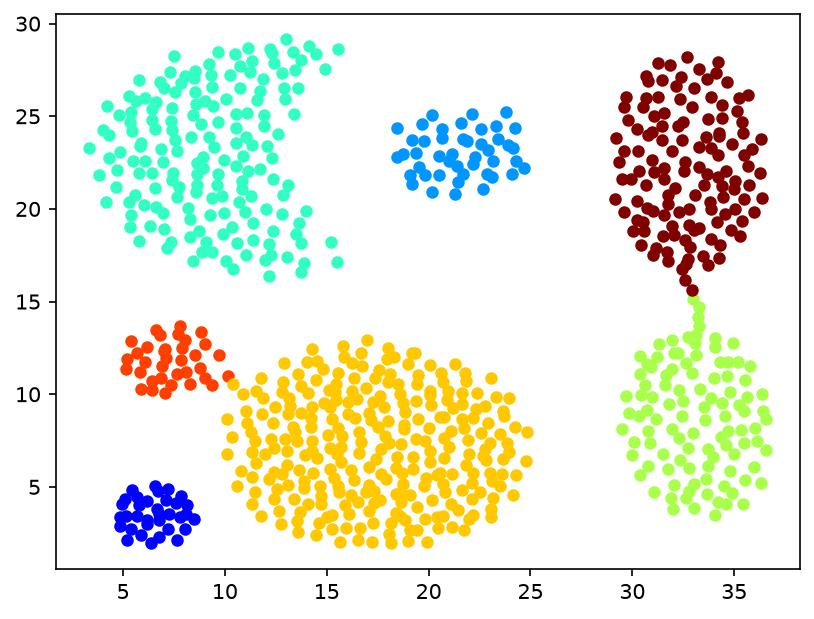
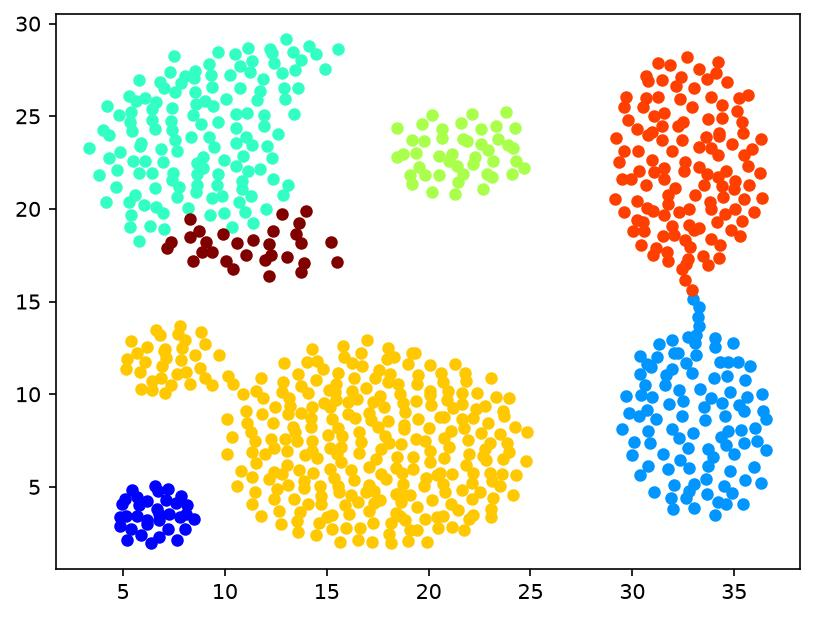
Refactor code: clean up comments, adjust neighbor search, and update ls.txt clustering config

diff --git a/code/NDP_Searching.py b/code/NDP_Searching.py
@@ -11,33 +11,27 @@ from sklearn.neighbors import NearestNeighbors
 
 
 def NDP_Searching(A):
-    # tic;
     N, dim = A.shape
     k = min(100, N)
-    kdtree = NearestNeighbors(n_neighbors=k, algorithm='kd_tree').fit(A)  # KDTreeSearcher(A(:,:),'bucketsize',1); % 1 indicates using Euclidean distance
-    distances, index = kdtree.kneighbors(A)  # [index,~] = knnsearch(kdtree,A(:,:),'k',100); % Return sorted indices and distances
+    kdtree = NearestNeighbors(n_neighbors=k, algorithm='kd_tree').fit(A) 
+    distances, index = kdtree.kneighbors(A)  
 
     # Initialize basic data
     r = 1
     flag = 0
     nb = np.zeros(N, dtype=int)  # Number of natural neighbors
-    # NNN = np.zeros((N, N))  # Natural neighbor set of each point
     count = 0   # Consecutive count where the number of points with zero natural nearest neighbors remains unchanged
     count1 = 0  # Previous count of data points with zero natural nearest neighbors
     count2 = 0  # Current count of data points with zero natural nearest neighbors
 
     # Search natural nearest neighbors
-    while flag == 0:
+    while flag == 0 and r < k:
         for i in range(N):
             k_neighbor = index[i, r]
             nb[k_neighbor] = nb[k_neighbor] + 1
-            # RNN[k_neighbor, nb[k_neighbor]] = i
         r = r + 1
-        # count2 = 0
-        count2 = int(np.sum(nb == 0))  # [~,count2]=size(find(nb==0));
-        # for i in range(N):
-        #     if nb[i] == 0:
-        #         count2 = count2 + 1
+        count2 = 0
+        count2 = int(np.sum(nb == 0))  
 
         # Count consecutive iterations where the number of points with nb(i) == 0 does not change
         if count1 == count2:
@@ -50,11 +44,9 @@ def NDP_Searching(A):
 
         count1 = count2
 
-    supk = r - 1           # lambda
-    max_nb = int(np.max(nb))  # maxnb
+    supk = r - 1     
     rho = np.zeros(N)
-    Non = max_nb
-    # Non = supk
+    Non = supk
 
     #############################################
     # compute the density
@@ -66,7 +58,6 @@ def NDP_Searching(A):
             d = d + dist
         rho[i] = Non / d if d != 0 else np.inf
 
-    # [rho_sorted, ordrho] = sort(rho, 'descend'); % ordrho is the order of densities from largest to smallest
     local_core = np.zeros(N, dtype=int)  # Store the local core points of the n points
 
     ##################################################################
@@ -106,17 +97,6 @@ def NDP_Searching(A):
     for i in range(N):
         cl[i] = cl[local_core[i]]
 
-    # toc;
-    ###############################################################
-    # import matplotlib.pyplot as plt
-    # plt.figure()
-    # # Plot the core points and corresponding initial clustering result
-    # plt.plot(A[:, 0], A[:, 1], '.')
-    # for i in range(N):
-    #     plt.plot([A[i, 0], A[local_core[i], 0]], [A[i, 1], A[local_core[i], 1]])
-    # drawcluster2(A, cl, cluster_number + 1)
-    # plt.plot(A[local_core, 0], A[local_core, 1], 'ro', markersize=8, markerfacecolor='r', markeredgecolor='r')
-    # # plt.title('Result of searching supk nearest neighbors')
 
     return index, supk, nb, rho, local_core, cores, cl, cluster_number
 

diff --git a/code/NDP_Kmeans.py b/code/NDP_Kmeans.py
@@ -16,23 +16,22 @@ from scipy.sparse.csgraph import minimum_spanning_tree, shortest_path as csgraph
 from scipy.sparse import csr_matrix
 import matplotlib.pyplot as plt
 
+
 from NDP_Searching import NDP_Searching
 from KmeansWithGD import KmeansWithGD
 from drawcluster_ndpkmeans import drawcluster_ndpkmeans
 
 
 def NDP_Kmeans(A, num_clusters, alpha, save_name='cluster_result.jpg'):
-    # A: The data set n*d
-
-    t_start = time.time()  # tic;
+    t_start = time.time() 
     N, dim = A.shape
     print('Searching NDPs......')
     index, supk, nb, rho, local_core, cores, cl, cluster_number = NDP_Searching(A)
-    rho_sorted = np.sort(rho)  # [rho_sorted,~]=sort(rho,'ascend');
+    rho_sorted = np.sort(rho)
     if alpha == 0:
         rho_threshold = 0.0
     else:
-        rho_threshold = rho_sorted[int(np.floor(N * alpha))]  # %0;
+        rho_threshold = rho_sorted[int(np.floor(N * alpha))]
 
     ##################################################################
     # eliminate low density NDPs
@@ -46,7 +45,6 @@ def NDP_Kmeans(A, num_clusters, alpha, save_name='cluster_result.jpg'):
                         x = A[cores[i], :]
                         y = A[cores[j], :]
                         distance = np.sqrt(np.sum((x - y) ** 2))
-                        # distance=pdist2(A(cores(i),:),A(cores(j),:));
                         if mind > distance and rho[cores[j]] > rho_threshold:
                             mind = distance
                             p = j
@@ -119,7 +117,7 @@ def NDP_Kmeans(A, num_clusters, alpha, save_name='cluster_result.jpg'):
             numinset1 = len(inset1)
             sharedCount[i, j] = numinset1
             sharedCount[j, i] = numinset1
-            if numinset1 == 0:  # &&numinset2==0
+            if numinset1 == 0:
                 core_dist[i, j] = maxd * (core_dist[i, j] + 1)
                 core_dist[j, i] = core_dist[i, j]
             else:
@@ -129,8 +127,6 @@ def NDP_Kmeans(A, num_clusters, alpha, save_name='cluster_result.jpg'):
 
     # Compute minimum spanning tree between local core points
     SD = csr_matrix(core_dist)
-    # UG=tril(SD);
-    # [ST,pred] = graphminspantree(UG,'METHOD','Prim');
     ST = minimum_spanning_tree(SD)
     ST2 = ST.toarray()
     ST2 = ST2 + ST2.T
@@ -146,7 +142,7 @@ def NDP_Kmeans(A, num_clusters, alpha, save_name='cluster_result.jpg'):
     for i in range(N):
         cl2[i] = cl2[local_core[i]]
 
-    t_elapsed = time.time() - t_start  # toc;
+    t_elapsed = time.time() - t_start
     print(f'Elapsed time is {t_elapsed:.6f} seconds.')
     print('Program complete!')
     plt.figure()

diff --git a/code/KmeansWithGD.py b/code/KmeansWithGD.py
@@ -5,22 +5,6 @@
 
 import numpy as np
 def KmeansWithGD(data, centers, num_clusters, graphdist, rho):
-    # dist is the shortest-path-based distance between core points
-    # A is the local core points / density peaks, Ncores*d
-    # cl is the kmeans clustering result, class label of each local core point
-    #
-    #   Input    : data           : Local core points / density peaks, Ncores*d,
-    #                               D is the number of dimensions
-    #              centers        : K-by-D matrix, where K is num_clusters, or
-    #                               'random', random initialization, or
-    #                               [], empty matrix, orthogonal initialization
-    #              num_clusters   : Number of clusters
-    #
-    #   Output   : cluster_labels : N-by-1 vector of cluster assignment
-    #
-    # Parameter setting
-    #
-    # tic;
     iter = 0
     qold = np.inf
     threshold = 0.00000001
@@ -43,10 +27,7 @@ def KmeansWithGD(data, centers, num_clusters, graphdist, rho):
     while iter <= 100:
         iter = iter + 1
         # Find the closest cluster for each data point, i.e., partition non-center points
-        # [val, ind] = min(P, [], 1);
         ind = np.argmin(P, axis=0)
-        # input('Press enter');
-        # drawcluster2(data,ind,num_clusters);
         # update centers
         clusters = [None] * num_clusters
         for i in range(num_clusters):
@@ -66,18 +47,13 @@ def KmeansWithGD(data, centers, num_clusters, graphdist, rho):
         P = graphdist[centers, :]
         # Calculate objective function value
         qnew = float(np.sum(P[ind, np.arange(n)]))
-        # mesg = sprintf('Iteration %d:\n\tQold=%g\t\tQnew=%g', iter, full(qold), full(qnew));
-        # disp(mesg);
-
         # Check if objective function value is less than/equal to threshold
         if qold != np.inf and threshold >= abs((qnew - qold) / qold):
-            # mesg = sprintf('\nkmeans converged!');
-            # disp(mesg);
             break
         qold = qnew
 
     ######################################################################
-    cluster_labels = ind + 1  # 1-based cluster assignment to match MATLAB
+    cluster_labels = ind + 1
     ncluster = np.max(cluster_labels)
     return cluster_labels
 

diff --git a/code/drawcluster_ndpkmeans.py b/code/drawcluster_ndpkmeans.py
@@ -9,22 +9,18 @@ import os
 
 def drawcluster_ndpkmeans(A, cluster, ncluster, filename='cluster_result.jpg'):
     n, d = A.shape
-    cmap = plt.colormaps['jet'](np.linspace(0, 1, 64))  # cmap = colormap; (64 colors in default MATLAB colormap)
+    cmap = plt.colormaps['jet'](np.linspace(0, 1, 64))  
     for i in range(n):
         if cluster[i] > 0:
             ic = int(((cluster[i]) * 64.0) / (ncluster * 1.0))
             ic = min(max(ic - 1, 0), 63)
             x = A[i, 0]
             y = A[i, 1]
-            # z = A[i, 2]
             plt.plot(x, y, 'o', markersize=5, markerfacecolor=cmap[ic], markeredgecolor=cmap[ic])
-            # hold on;
         else:
             x = A[i, 0]
             y = A[i, 1]
-            # z = A[i, 2]
-            plt.plot(x, y, 'k.')  # ,'MarkerSize',10);
-            # hold on;
+            plt.plot(x, y, 'k.') 
     
     if not filename.lower().endswith(('.jpg', '.jpeg')):
         filename = f"{filename}.jpg"

diff --git a/main.py b/main.py
@@ -4,6 +4,7 @@ import numpy as np
 
 # Add python_code directory to path
 sys.path.insert(0, os.path.join(os.path.dirname(__file__), 'code'))
+# pyrefly: ignore[missing-import]
 from NDP_Kmeans import NDP_Kmeans
 
 # Ensure results folder exists
@@ -16,7 +17,7 @@ datasets = [
     ('agg.txt', 7, 0.0),
     ('db2.txt', 2, 0.0),
     ('cth.txt', 2, 0.0),
-    ('ls.txt', 2, 0.0),
+    ('ls.txt', 6, 0.0),
 ]
 
 for filename, k, alpha in datasets:
